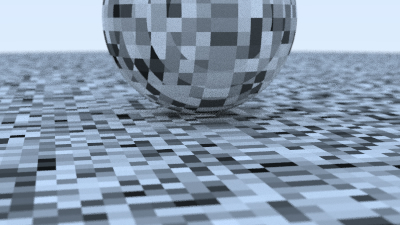
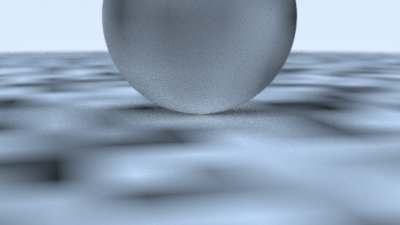
2-image8 generated

diff --git a/raytracer/src/perlin.rs b/raytracer/src/perlin.rs
@@ -47,10 +47,56 @@ impl Perlin {
         p
     }
 
+    #[allow(clippy::many_single_char_names)]
+    #[allow(clippy::needless_range_loop)]
     pub fn noise(&self, p: Point3) -> f64 {
-        let i = (((4. * p.x) as isize) & 255) as usize;
-        let j = (((4. * p.y) as isize) & 255) as usize;
-        let k = (((4. * p.z) as isize) & 255) as usize;
-        self.randfloat[self.perm_x[i] ^ self.perm_y[j] ^ self.perm_z[k]]
+        let u = p.x - p.x.floor();
+        let v = p.y - p.y.floor();
+        let w = p.z - p.z.floor();
+
+        let i = p.x.floor() as i32;
+        let j = p.y.floor() as i32;
+        let k = p.z.floor() as i32;
+
+        let mut c: [[[f64; 2]; 2]; 2] = Default::default();
+
+        for di in 0..2 {
+            for dj in 0..2 {
+                for dk in 0..2 {
+                    c[di][dj][dk] = self.randfloat[self.perm_x[((i + di as i32) & 255) as usize]
+                        ^ self.perm_y[((j + dj as i32) & 255) as usize]
+                        ^ self.perm_z[((k + dk as i32) & 255) as usize]]
+                }
+            }
+        }
+
+        Perlin::trilinear_interp(c, u, v, w)
     }
+
+    #[allow(clippy::needless_range_loop)]
+    fn trilinear_interp(c: [[[f64; 2]; 2]; 2], u: f64, v: f64, w: f64) -> f64 {
+        let mut accum = 0.;
+        for i in 0..2 {
+            for j in 0..2 {
+                for k in 0..2 {
+                    accum += (i as f64 * u + (1 - i) as f64 * (1. - u))
+                        * (j as f64 * v + (1 - j) as f64 * (1. - v))
+                        * (k as f64 * w + (1 - k) as f64 * (1. - w))
+                        * c[i][j][k];
+                }
+            }
+        }
+        accum
+    }
+    //        static double trilinear_interp(double c[2][2][2], double u, double v, double w) {
+    //            auto accum = 0.0;
+    //            for (int i=0; i < 2; i++)
+    //                for (int j=0; j < 2; j++)
+    //                    for (int k=0; k < 2; k++)
+    //                        accum += (i*u + (1-i)*(1-u))*
+    //                                (j*v + (1-j)*(1-v))*
+    //                                (k*w + (1-k)*(1-w))*c[i][j][k];
+    //
+    //            return accum;
+    //        }
 }
